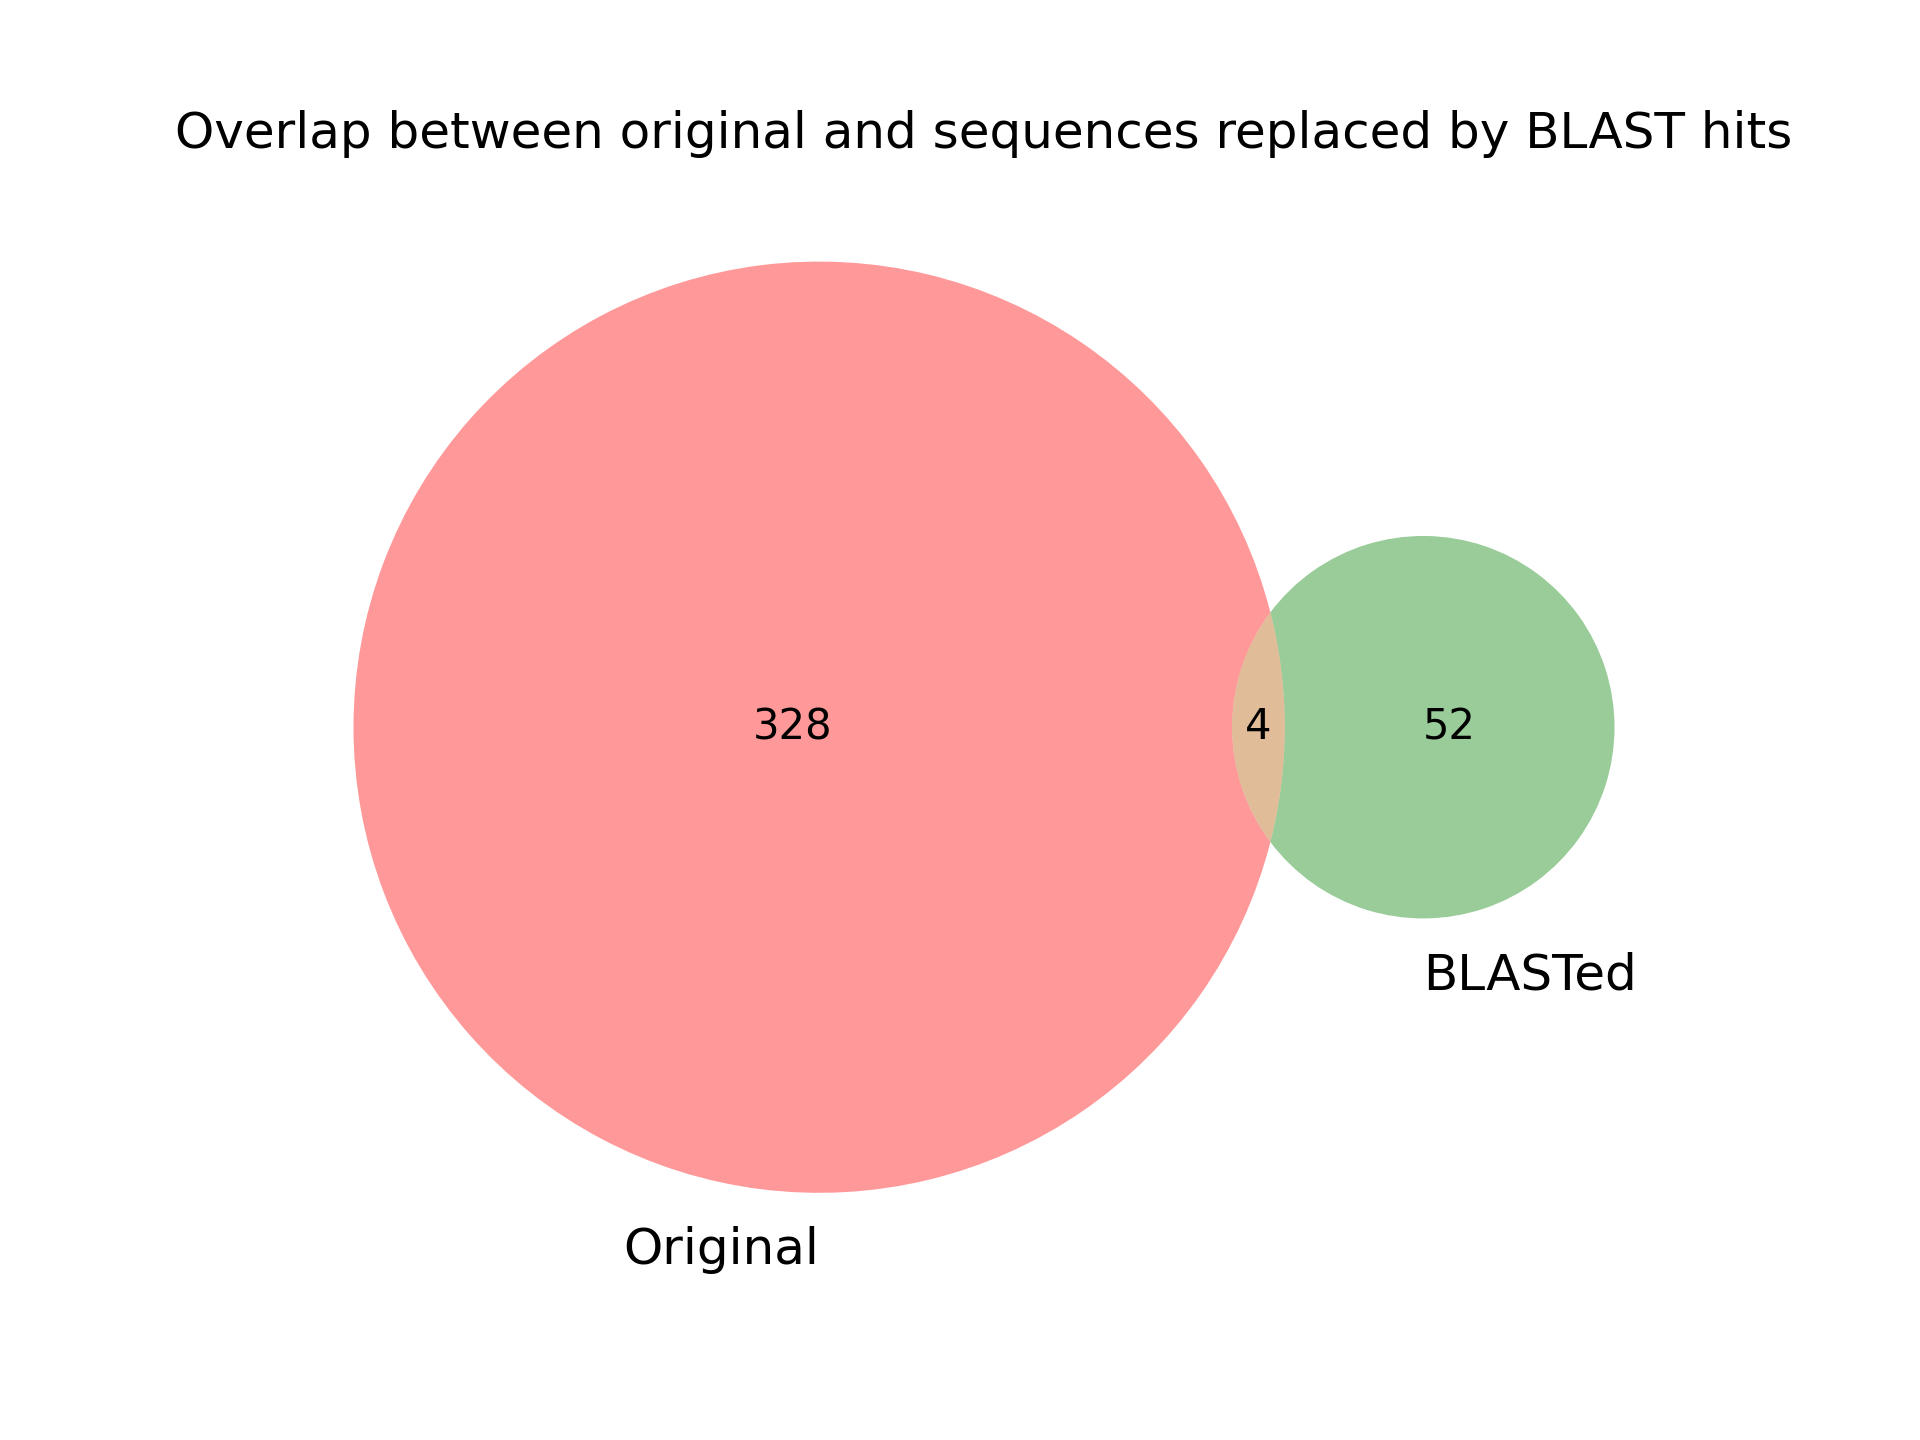
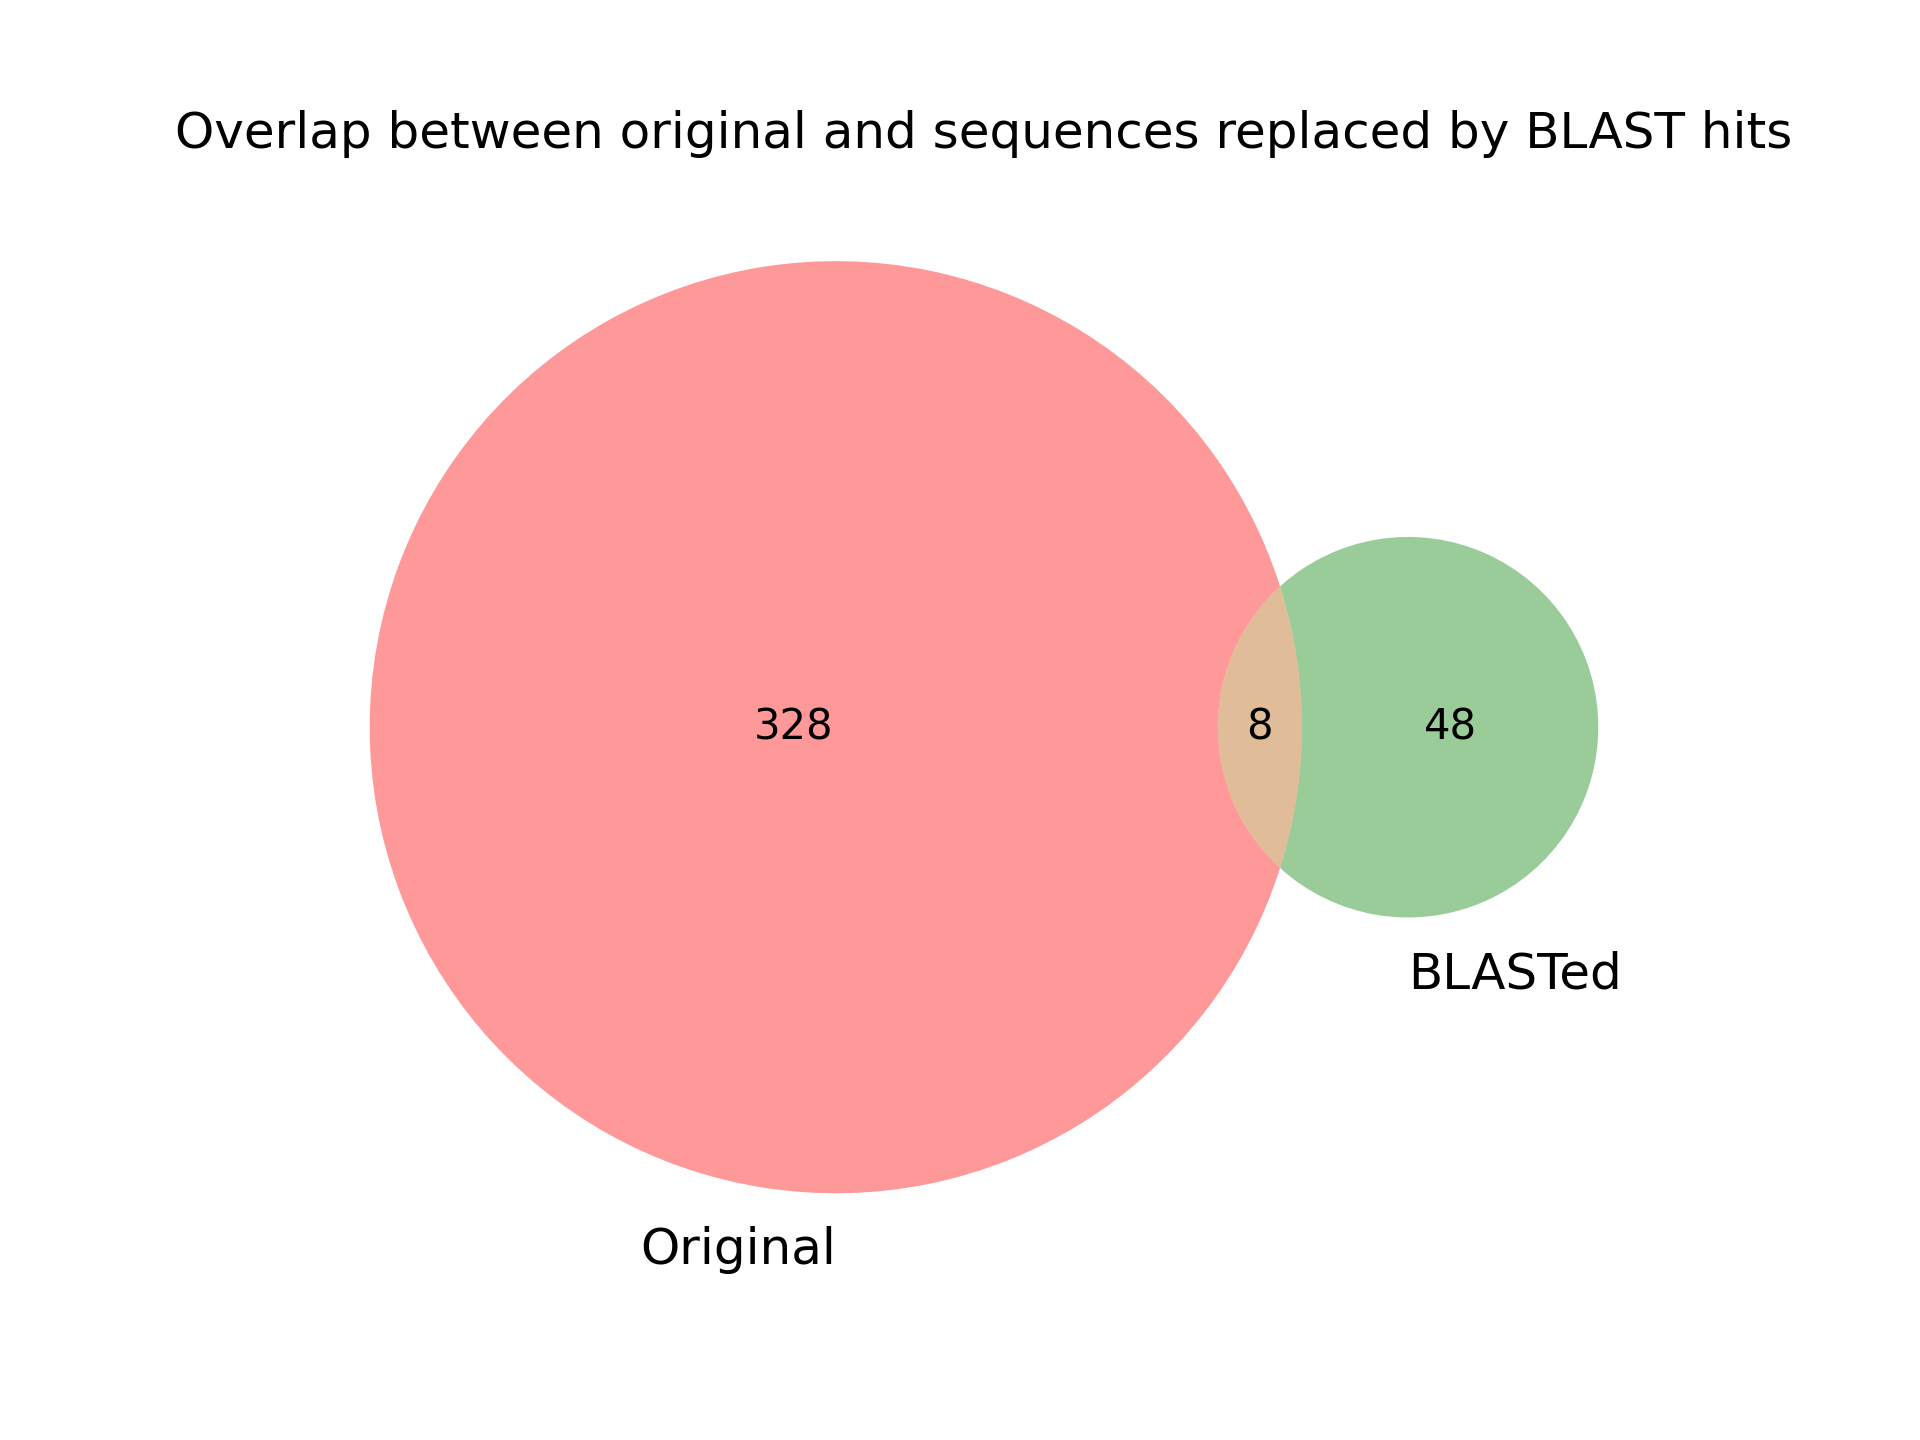
figure out where 4 genomes disappeared to

diff --git a/src/scripts/taxonomic_annotation.py b/src/scripts/taxonomic_annotation.py
@@ -6,7 +6,7 @@ def filter_clusters_table():
     clusters_table = polars.read_csv("src/data/results/combined_clusters_blasted_gtdb.tsv", separator='\t', infer_schema_length=600)
     # remove original sequences that were later merged
     clusters_table = (clusters_table.filter((polars.col("merged") == "merged") | polars.col("merged").is_null()))
-
+    print(f"Before stuff: {clusters_table.select("sequence_id").n_unique()}")
     # check that annotations are the same for all species
     for rank in ["species"]:
         mismatch = clusters_table.filter(polars.col(rank) != polars.col(f"{rank}_new"), (polars.col("blast_status") == True))
@@ -24,6 +24,7 @@ def filter_clusters_table():
         .filter(polars.col("blast_status") == False)
         .select(original_cols)
     )
+    not_replace = (clusters_table_original.select('sequence_id').unique().to_series().to_list())
     print(f"To not replace: {clusters_table_original.select('sequence_id').n_unique()} unique sequences.")
 
     # get rows to replace by blast results, replace with new columns
@@ -34,9 +35,12 @@ def filter_clusters_table():
         .rename(rename_map)
         .select(original_cols)
     )
+    replace_left = set(clusters_table.filter(polars.col("blast_status") == True).select('sequence_id').unique().to_series().to_list())
+    replace_right = set(clusters_table_blasted.select('sequence_id').unique().to_series().to_list())
+    print(f"Overlapping sequence ids between replace and keep: {replace_left.intersection(not_replace)}\n")
+    print(f"Overlapping sequence ids between replacemenet and kept: {replace_right.intersection(not_replace)}\n")
     print(f"To replace left: {clusters_table.filter(polars.col("blast_status") == True).select('sequence_id').n_unique()} unique sequences.")
     print(f"To replace right: {clusters_table_blasted.select('sequence_id').n_unique()} unique sequences.\n\n")
-
 
     clusters_table_full = clusters_table_original.vstack(clusters_table_blasted)
     clusters_table_full = merge_overlapping_puls(clusters_table_full, blast=True, keep_original=False).sort('merged')
@@ -63,10 +67,9 @@ def filter_clusters_table():
     )
 
     clusters_table_grouped = clusters_table_filtered.select("sequence_id", "blast_status").filter(polars.col('blast_status') == True)
-    print(f"Selected {clusters_table_grouped['sequence_id'].unique().shape[0]} sequences with blast results")
-
-
     print(f"{clusters_table_filtered.filter(polars.col("class").is_null()).shape[0]} rows with no taxonomic information from GTDB")
+
+    print(f"Selected {clusters_table_grouped['sequence_id'].unique().shape[0]} sequences with blast results")
     print(f"Total of {clusters_table_filtered.select('sequence_id').unique().shape[0]} unique sequences in the filtered table")
     clusters_table_filtered.write_csv("src/data/results/combined_clusters_blasted_gtdb_filtered.tsv", separator='\t')
     return clusters_table_filtered
@@ -104,6 +107,7 @@ def main():
         .join(taxonomic_annotation, on="sequence_id", how="left")
         .join(taxonomic_annotation, left_on="new_sequence_id", right_on="sequence_id", how="left", suffix="_new")
     )
+
     clusters_table.write_csv("src/data/results/combined_clusters_blasted_gtdb.tsv", separator="\t")
     filter_clusters_table()
 

diff --git a/src/scripts/plots.py b/src/scripts/plots.py
@@ -92,9 +92,9 @@ def plot_venn_diagram_blast(save="src/data/plots/temp.png"):
 
 
 def plot_venn_diagram_blast_filtered(save="src/data/plots/temp.png"):
-    clusters_table = polars.read_csv("src/data/results/combined_clusters_blasted_gtdb_filtered.tsv", separator='\t', infer_schema_length=600)
-    from_blast = set(clusters_table.filter(polars.col("blast_status") == True).select("sequence_id").to_series())
-    original = set(clusters_table.filter(polars.col("blast_status") == False | polars.col("blast_status").is_null()).select("sequence_id").to_series())
+    clusters_table = polars.read_csv("src/data/results/combined_clusters_blasted_gtdb.tsv", separator='\t', infer_schema_length=600)
+    from_blast = set(clusters_table.filter(polars.col("blast_status") == True).select("new_sequence_id").to_series())
+    original = set(clusters_table.filter(polars.col("blast_status") == False).select("sequence_id").to_series())
 
     venn2([original, from_blast], set_labels = ('Original', 'BLASTed'))
     plt.title("Overlap between original and sequences replaced by BLAST hits")
